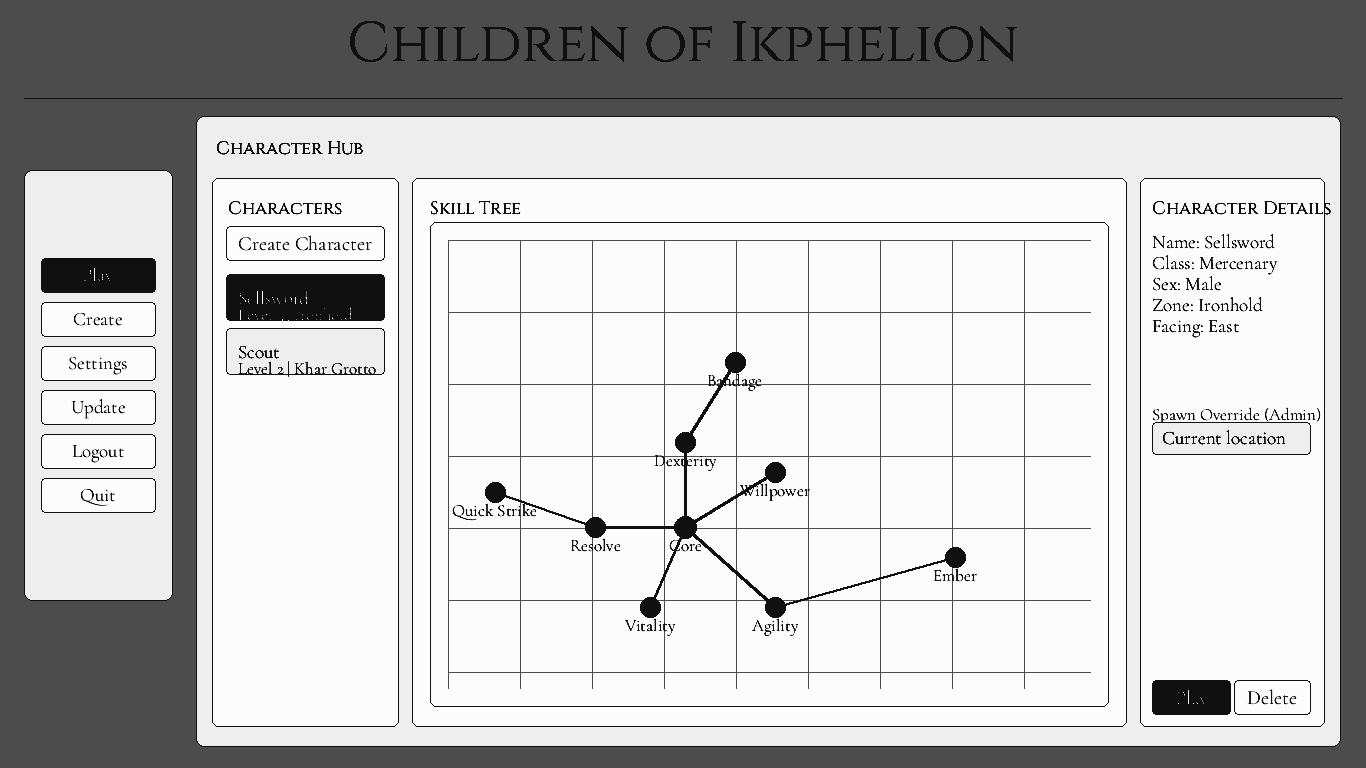
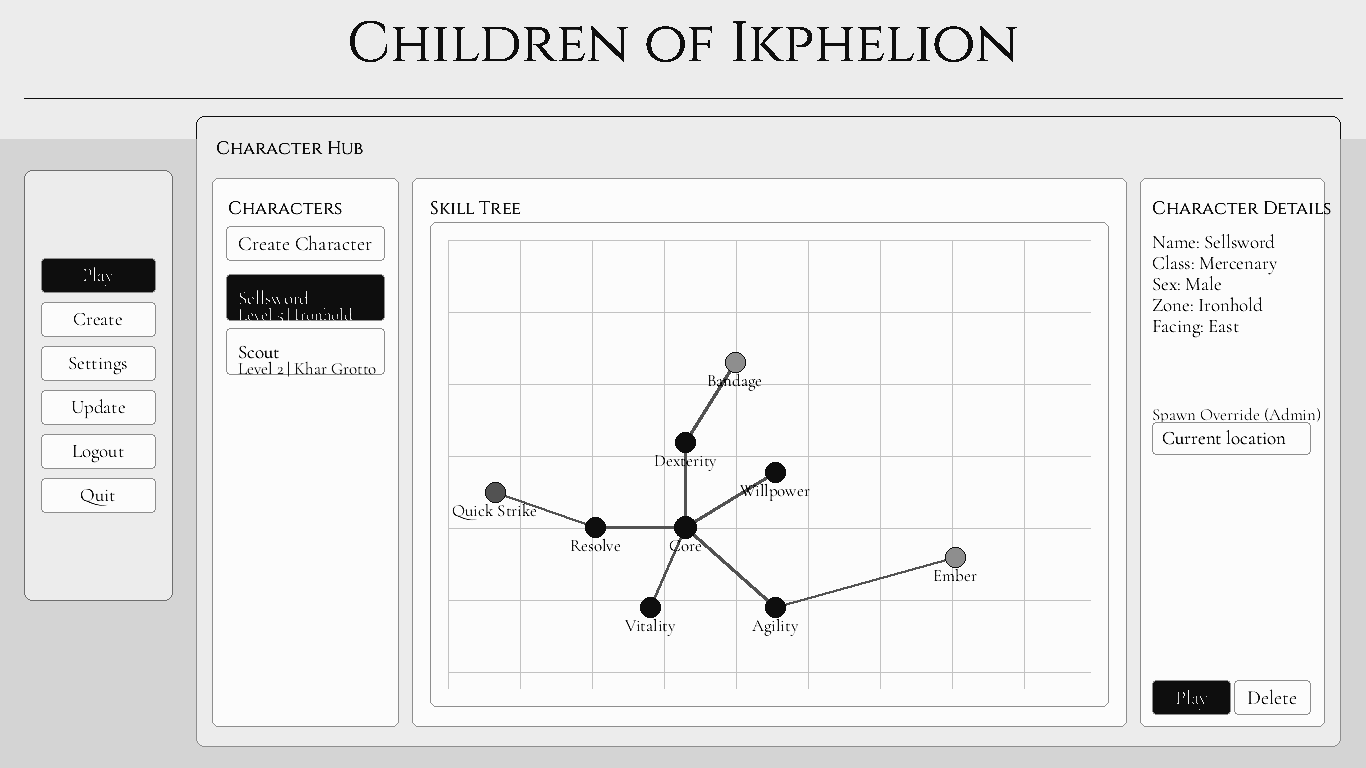
Refine black-white concept contrast and preserve title hierarchy

diff --git a/tools/generate_ui_concept_blackwhite.py b/tools/generate_ui_concept_blackwhite.py
@@ -18,46 +18,96 @@ OUT_DIR = SRC_DIR / "ui_concept_blackwhite"
 
 
 def quantize_gray(v: int) -> int:
-    # Tight neutral grayscale palette for a crisp black/white look.
-    if v >= 246:
+    # Neutral grayscale ramp biased toward light surfaces and crisp dark accents.
+    if v >= 248:
         return 252
-    if v >= 226:
-        return 238
-    if v >= 204:
-        return 220
+    if v >= 232:
+        return 244
+    if v >= 216:
+        return 236
+    if v >= 198:
+        return 226
     if v >= 178:
-        return 194
+        return 212
     if v >= 152:
-        return 166
-    if v >= 124:
-        return 136
-    if v >= 96:
-        return 104
-    if v >= 72:
-        return 76
-    if v >= 48:
-        return 44
-    return 16
+        return 194
+    if v >= 132:
+        return 170
+    if v >= 108:
+        return 142
+    if v >= 84:
+        return 110
+    if v >= 60:
+        return 82
+    if v >= 38:
+        return 52
+    return 14
+
+
+def _is_blue_accent(hue: int, sat: int, val: int) -> bool:
+    # Only high-saturation accent blues should collapse into deep black.
+    return 130 <= hue <= 195 and sat >= 70 and val <= 238
+
+
+def _curve_base_tone(gray_v: int) -> int:
+    # Lift mid-tones so backgrounds stay airy in monochrome.
+    return int((gray_v / 255.0) ** 0.9 * 255)
+
+
+def _title_band_contrast(y: int, h: int, g: int, base_gray: int) -> int:
+    # Recover visual hierarchy in the top banner/title region.
+    top_band = int(h * 0.18)
+    if y > top_band:
+        return g
+    # Keep header background light; force dark text/linework to stay visible.
+    if base_gray < 130:
+        return max(8, int(g * 0.30))
+    return max(228, g)
+
+
+def _neutral_surface_lift(sat: int, g: int) -> int:
+    if sat < 20 and g > 150:
+        return min(252, int(g * 1.08 + 6))
+    return g
+
+
+def _accent_darkening(hue: int, sat: int, val: int, g: int) -> int:
+    if _is_blue_accent(hue, sat, val):
+        if sat >= 58:
+            return int(g * 0.16)
+        if sat >= 44:
+            return int(g * 0.30)
+        return int(g * 0.55)
+    # Keep non-blue dark saturated spots strong, but avoid crushing neutral surfaces.
+    if sat >= 65 and val < 120:
+        return int(g * 0.40)
+    if 130 <= hue <= 195 and sat >= 45 and val <= 180:
+        return int(g * 0.62)
+    return g
 
 
 def recolor_one(src: Path, out: Path) -> None:
     rgb = Image.open(src).convert("RGB")
     gray = ImageOps.autocontrast(ImageOps.grayscale(rgb), cutoff=1)
-    sat = rgb.convert("HSV").split()[1]
+    hue, sat, val = rgb.convert("HSV").split()
 
     gp = gray.load()
+    hp = hue.load()
     sp = sat.load()
+    vp = val.load()
     w, h = gray.size
     for y in range(h):
         for x in range(w):
-            g = gp[x, y]
+            base = gp[x, y]
+            g = _curve_base_tone(base)
+            hh = hp[x, y]
             s = sp[x, y]
+            vv = vp[x, y]
 
-            # Darken saturated UI accents (old blue states) into strong black anchors.
-            if s > 42:
-                g = int(g * 0.23)
-            elif s > 26:
-                g = int(g * 0.55)
+            if y > int(h * 0.18):
+                g = _accent_darkening(hh, s, vv, g)
+            g = _neutral_surface_lift(s, g)
+            g = _title_band_contrast(y, h, g, base)
 
             gp[x, y] = quantize_gray(g)
 

diff --git a/docs/TASKS.md b/docs/TASKS.md
@@ -12,6 +12,7 @@ Status legend: `⬜` not started, `⏳` in progress/blocked, `✅` done.
 ## Completed
 | Task ID | Status | Complexity | Detailed Description |
 | --- | --- | --- | --- |
+| COI-2D-056 | ✅ | 1 | Refined `tools/generate_ui_concept_blackwhite.py` to preserve title/header contrast and prevent background over-darkening by switching to selective accent darkening; regenerated `concept_art/ui_concept_blackwhite/ui_concept_bw_*.png`. |
 | COI-2D-055 | ✅ | 2 | Replaced further graph/blob concept iteration with a direct black/white theme remap of baseline `ui_concept_*.png` screens by adding `tools/generate_ui_concept_blackwhite.py` and generating `concept_art/ui_concept_blackwhite/ui_concept_bw_*.png` plus a contact sheet. |
 | COI-2D-054 | ✅ | 3 | Retired deprecated graph-concept references from canonical docs and rebooted UI concept iteration from `ui_concept_*` only by adding `tools/generate_ui_concept_radial_reboot.py`, generating a clean new `pass_01` under `concept_art/option_radial_reboot_blackwhite/pass_01` (boot/gateway/register/play empty/play selected/create/system/update + contact sheet + process notes). |
 | COI-2D-044 | ✅ | 2 | Updated concept direction to keep skill-graph context in both selection and creation screens and reflect pre-launch build-save intent in the selection UX exploration (future economy-gated commit path). |

diff --git a/docs/TECHNICAL.md b/docs/TECHNICAL.md
@@ -63,6 +63,7 @@ Canonical technical source of truth for runtime architecture, backend boundaries
 - UI concept reboot baseline is the `concept_art/ui_concept_*.png` pack only.
 - Deprecated concept branches (`option_*`, `shadow_graph`, and other iterative experiment families) are retired from active direction and should not be used as source/reference for new iterations.
 - Active theme transformation output is generated by `tools/generate_ui_concept_blackwhite.py` into `concept_art/ui_concept_blackwhite/`, preserving baseline `ui_concept_*` layouts while remapping visuals to a black/white palette.
+- Black/white transformation now uses selective accent remapping (instead of uniform grayscale crush) so title/header hierarchy remains high-contrast and neutral surfaces stay bright.
 
 ## Backend Responsibilities
 - Auth/session lifecycle (register/login/refresh/logout + MFA)

diff --git a/docs/patch_notes.md b/docs/patch_notes.md
@@ -1,3 +1,4 @@
 - Stopped graph/blob concept churn and switched to a direct visual remap of baseline `ui_concept_*.png` screens.
 - Added `tools/generate_ui_concept_blackwhite.py` to produce black/white themed variants while preserving original layout structure.
 - Generated a full themed output set under `concept_art/ui_concept_blackwhite/` (`ui_concept_bw_*.png` + contact sheet).
+- Tuned the black/white conversion to keep the game title/header readable and avoid over-darkened gray backgrounds by applying selective accent remapping.
